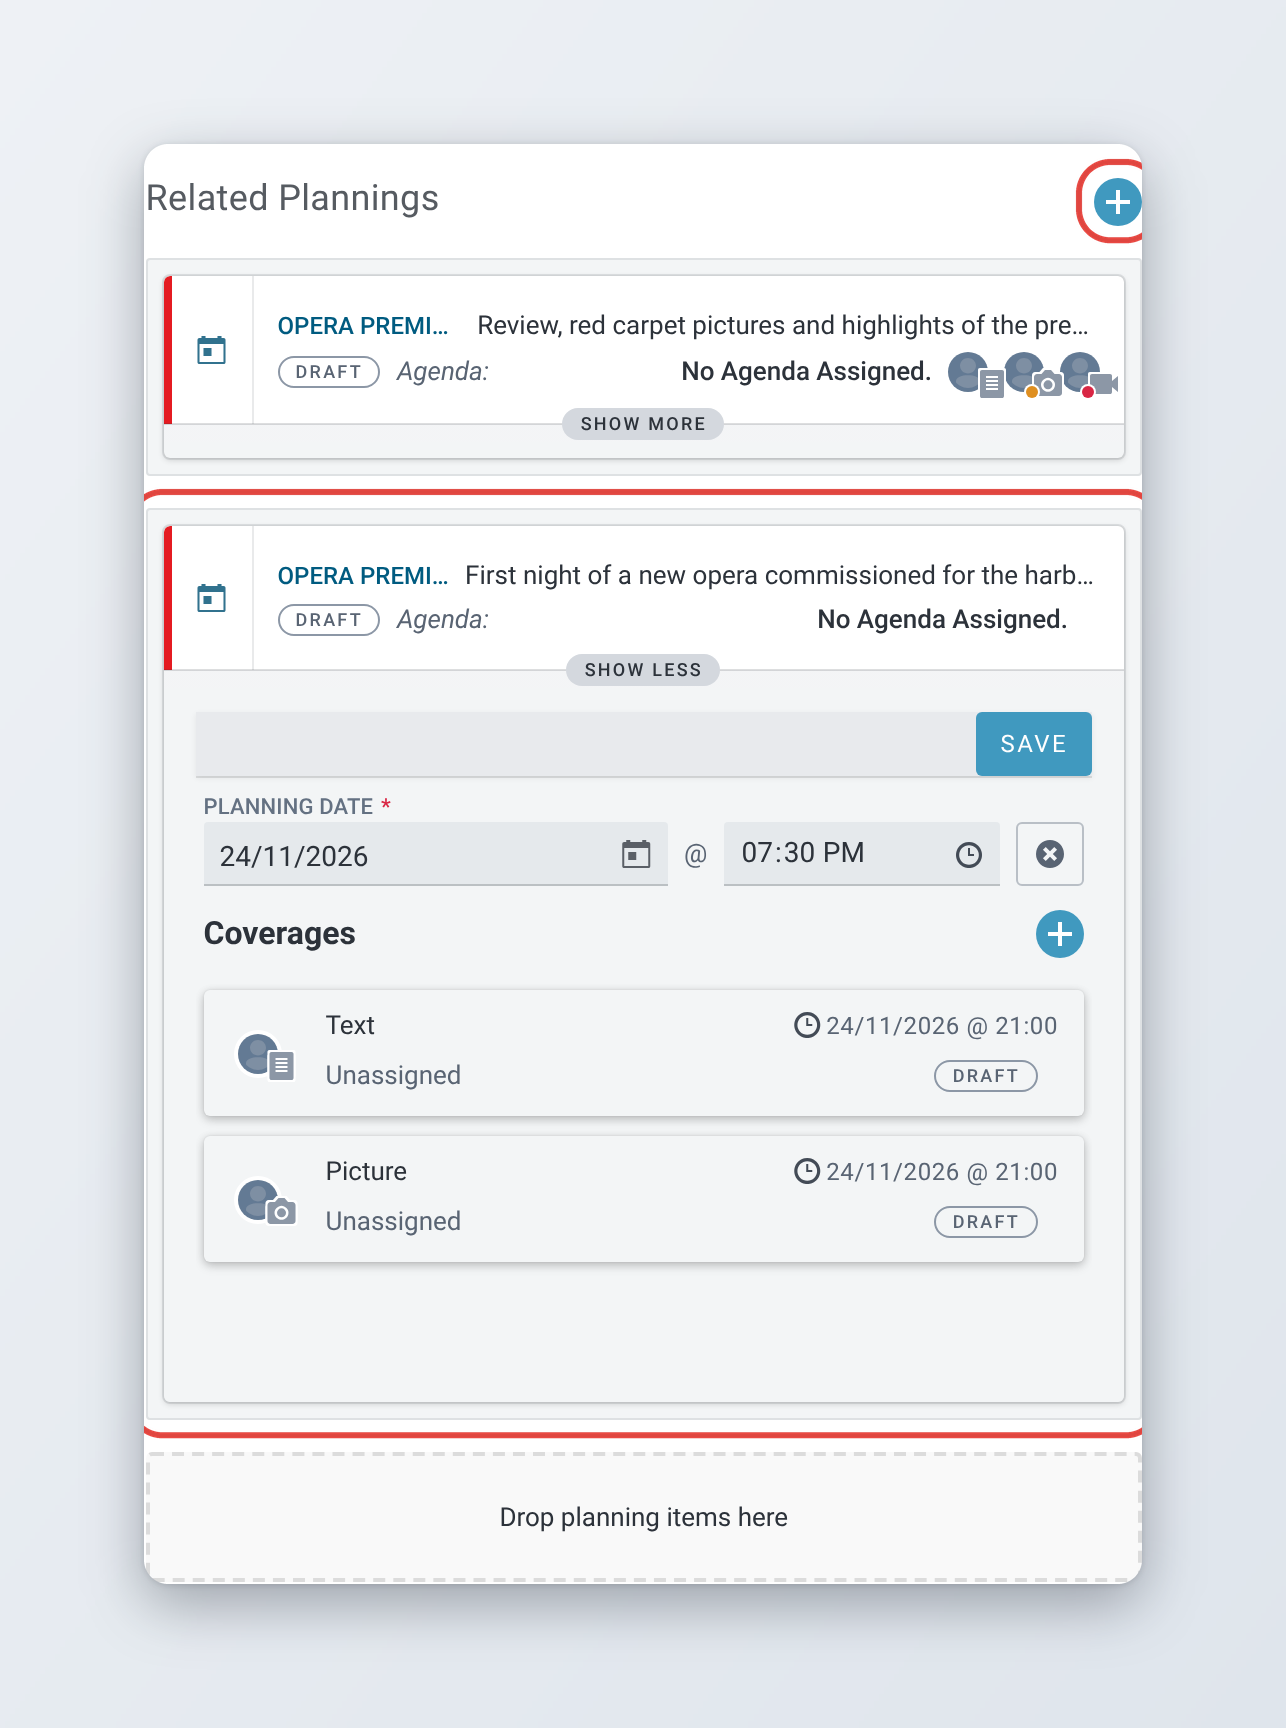
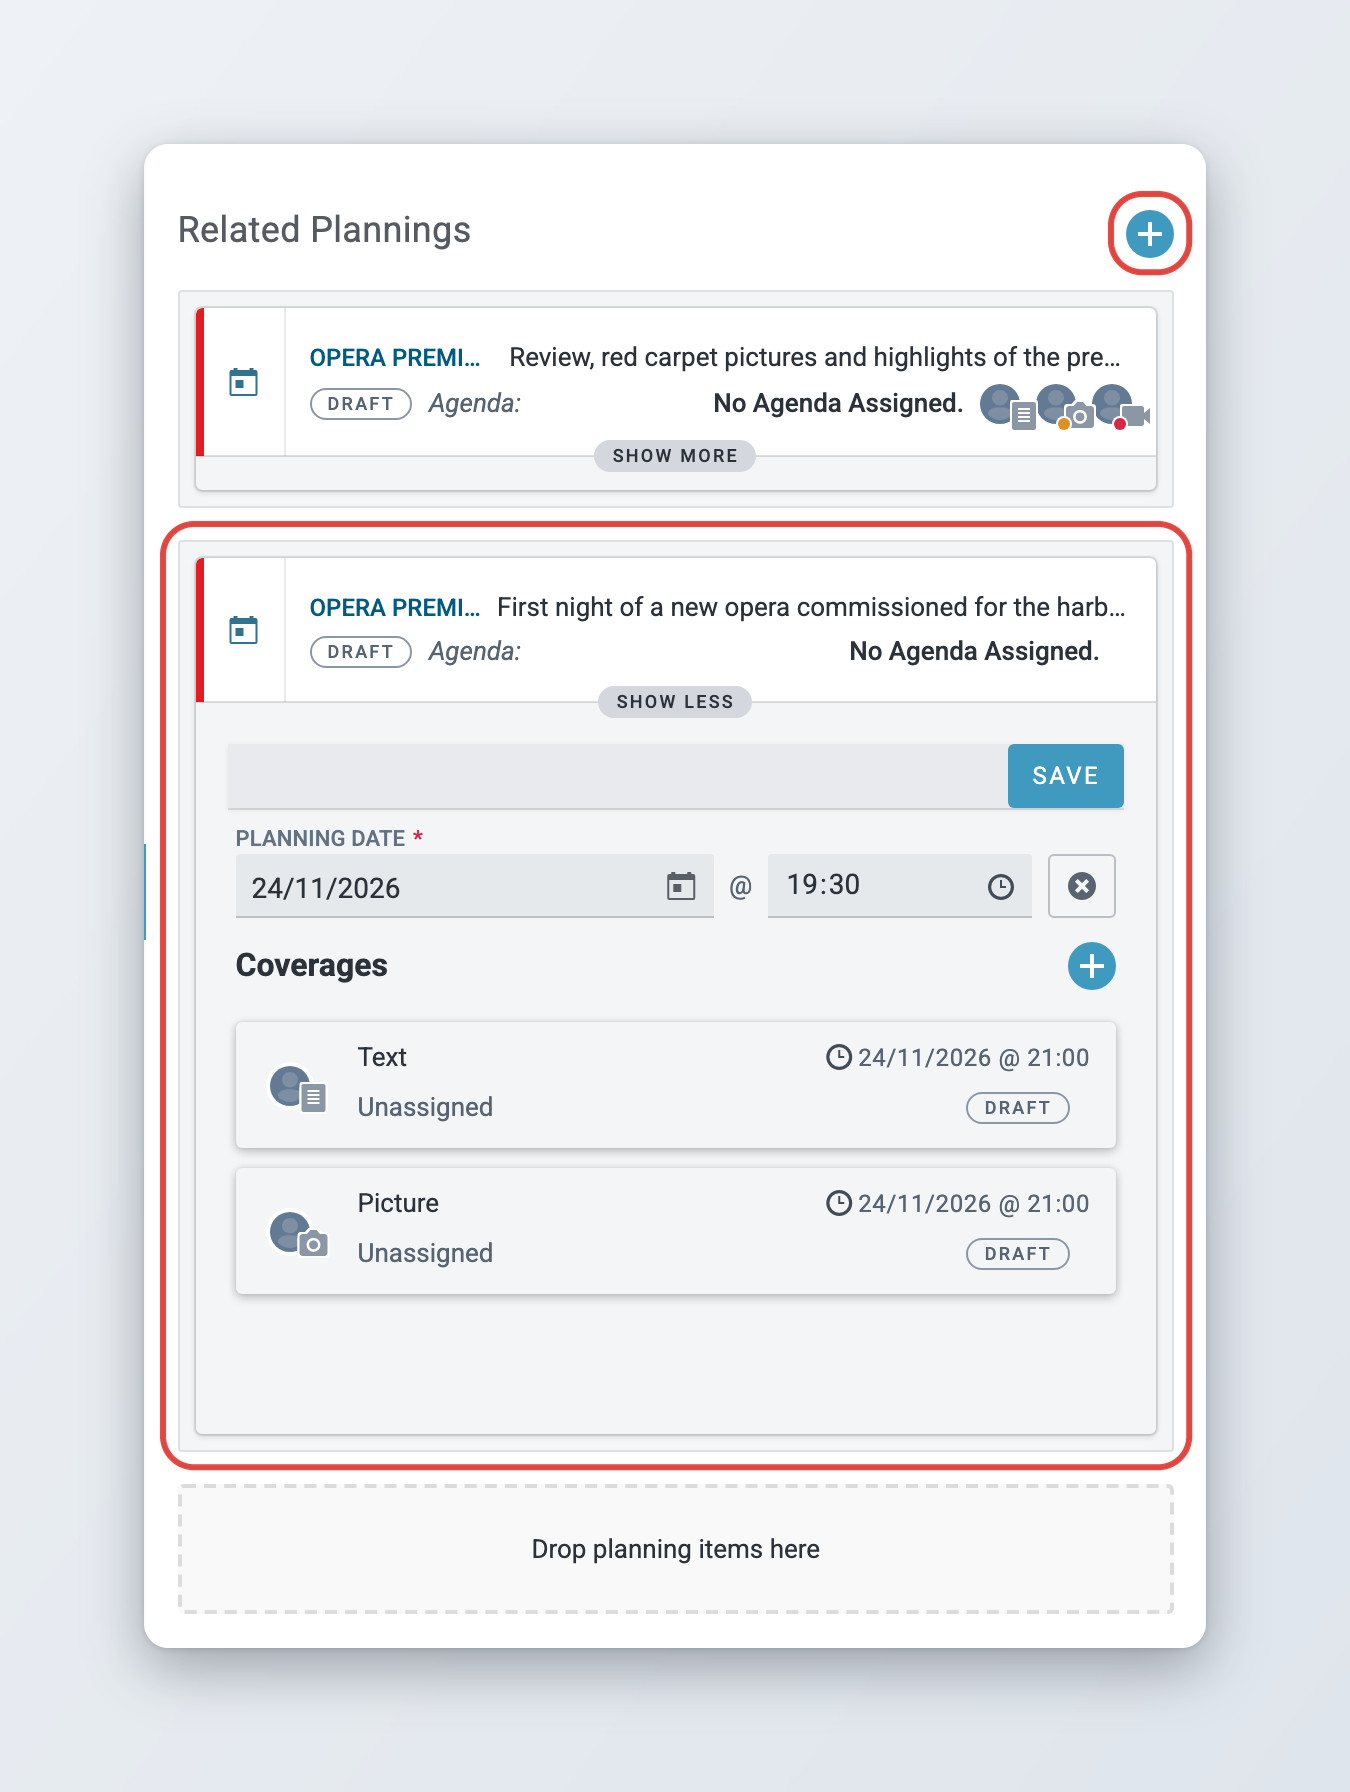
Give the embedded planning figure room for its highlight boxes

Changed region(s): [[0.0933, 0.0625, 0.902, 0.9375], [0.4666, 0.4688, 0.6843, 0.5], [0.4355, 0.375, 0.5599, 0.4062]]

diff --git a/superdesk-user-guide/superdesk-planning-component/planning-items-and-coverages.md b/superdesk-user-guide/superdesk-planning-component/planning-items-and-coverages.md
@@ -38,7 +38,7 @@ You can plan coverage without leaving the event. Save the event first, then clic
 
 Add coverages to the card with the **Coverages** plus button, which lists the coverage types and an **Advanced mode** for the full coverage form. Each coverage shows as a card with its assignment and workflow state, for example **Unassigned** and **Draft**; open it to choose the desk and user. When you save the card, the planning item is saved and linked to the event.
 
-<figure><img src="../../.gitbook/assets/superdesk-planning-component/event-embedded-planning.png" alt="An event in the editor with a planning item and two coverages added in the Related Plannings section" width="476"><figcaption><p>Planning coverage from inside the event</p></figcaption></figure>
+<figure><img src="../../.gitbook/assets/superdesk-planning-component/event-embedded-planning.png" alt="An event in the editor with a planning item and two coverages added in the Related Plannings section" width="482"><figcaption><p>Planning coverage from inside the event</p></figcaption></figure>
 
 ### Creating an event from a planning item
 
